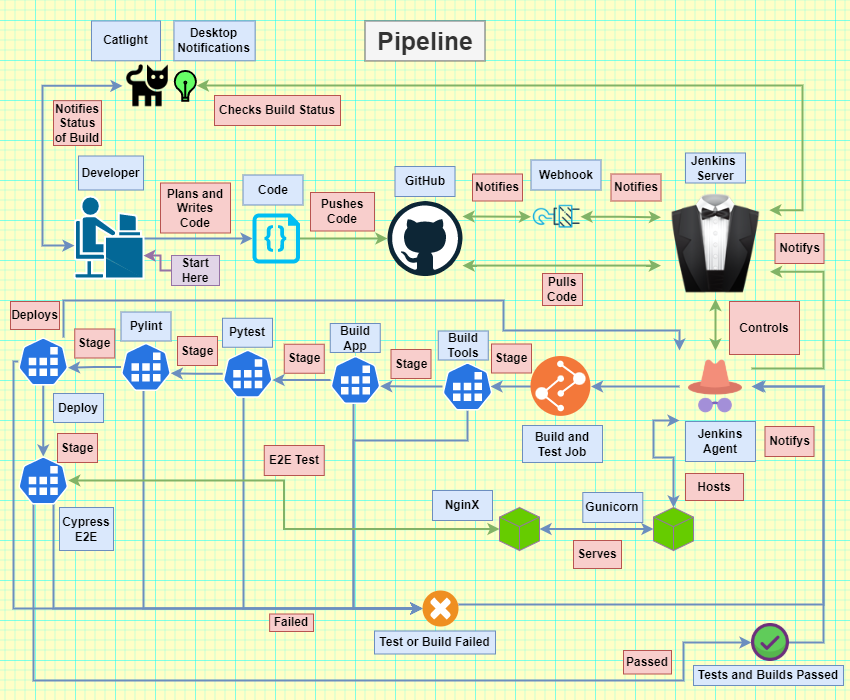
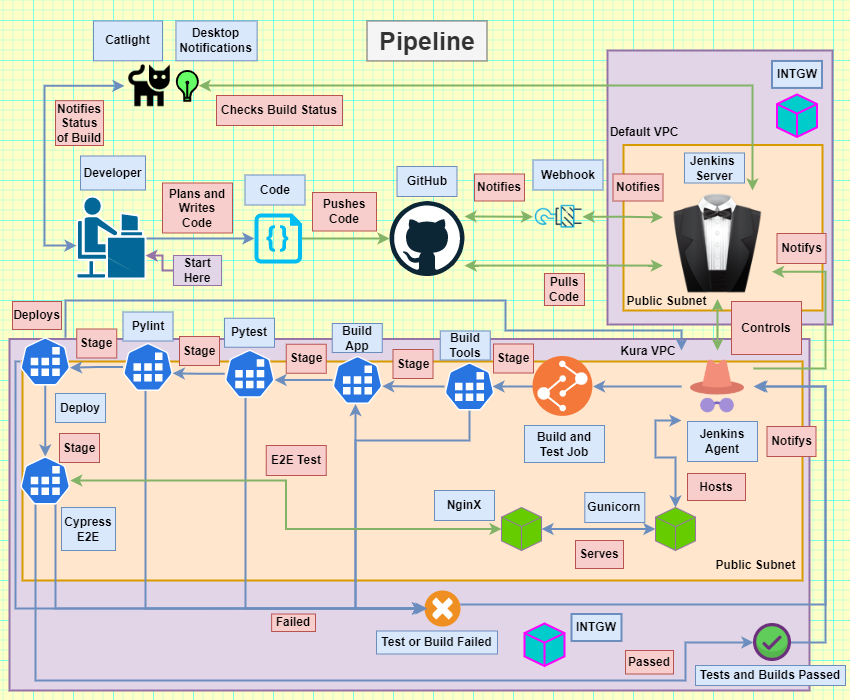
Added VPCs

diff --git a/README.md b/README.md
@@ -794,20 +794,6 @@ Repo link: https://github.com/kura-labs-org/kuralabs_deployment_3.git
 
     </details>
 
-## Documentation
-
-- Documentation of everything. 
-
-    <details>
-
-    <summary>Documentation</summary>
-
-    <br>
-
-    - [Documentation](https://github.com/RichardDeodutt/Deployment-3/blob/main/README.md). 
-
-    </details>
-
 ## Software Stack
 
 - Type of software stack used. 
@@ -821,6 +807,20 @@ Repo link: https://github.com/kura-labs-org/kuralabs_deployment_3.git
     <p align="center">
     <a href="https://github.com/RichardDeodutt/Deployment-3/blob/main/Images/Stack.png"><img src="https://github.com/RichardDeodutt/Deployment-3/blob/main/Images/Stack.png" />
     </p>
+
+    </details>
+
+## Documentation
+
+- Documentation of everything. 
+
+    <details>
+
+    <summary>Documentation</summary>
+
+    <br>
+
+    - [Documentation](https://github.com/RichardDeodutt/Deployment-3/blob/main/README.md). 
 
     </details>
 
@@ -953,3 +953,7 @@ Repo link: https://github.com/kura-labs-org/kuralabs_deployment_3.git
 # Issues
 
 - Any code not up to `Pylint's standard` in [application.py](https://github.com/RichardDeodutt/Deployment-3/blob/main/Modified-Application-Files/application.py) will throw a `"error"` and fail the test breaking the `rest of the chain` even if the error in question is `just a style thing` and `not a real error`. 
+
+# Improvements
+
+- A better linter that isn't so strict. 
